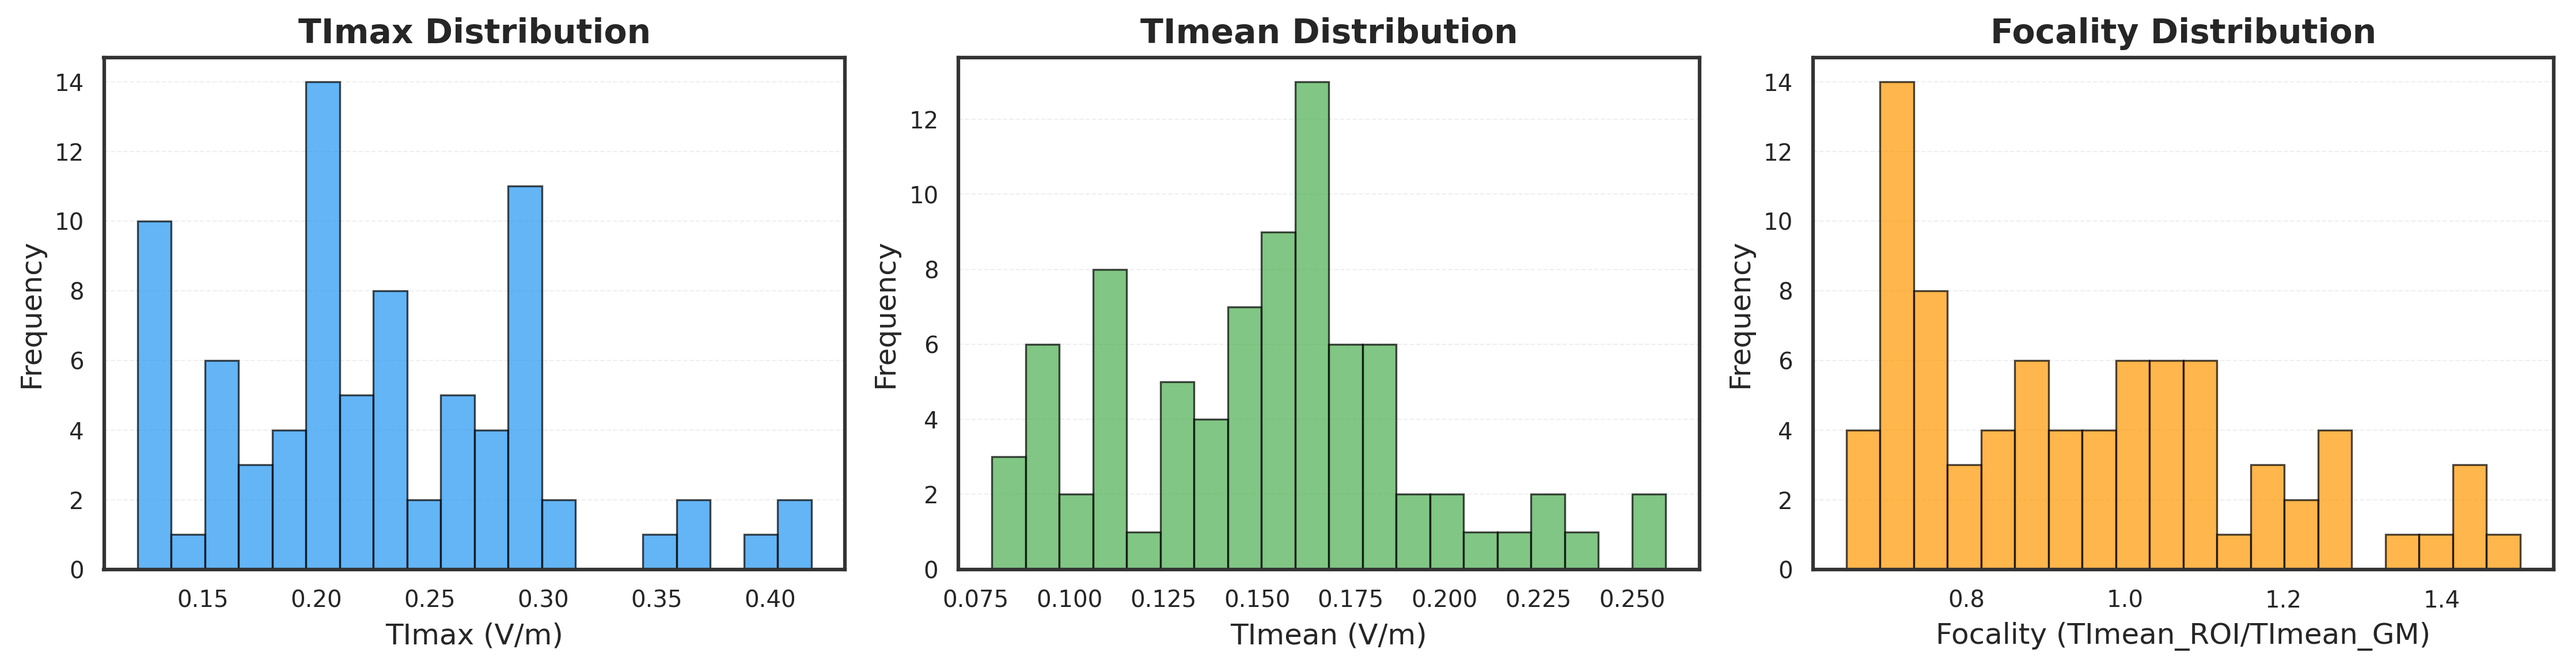
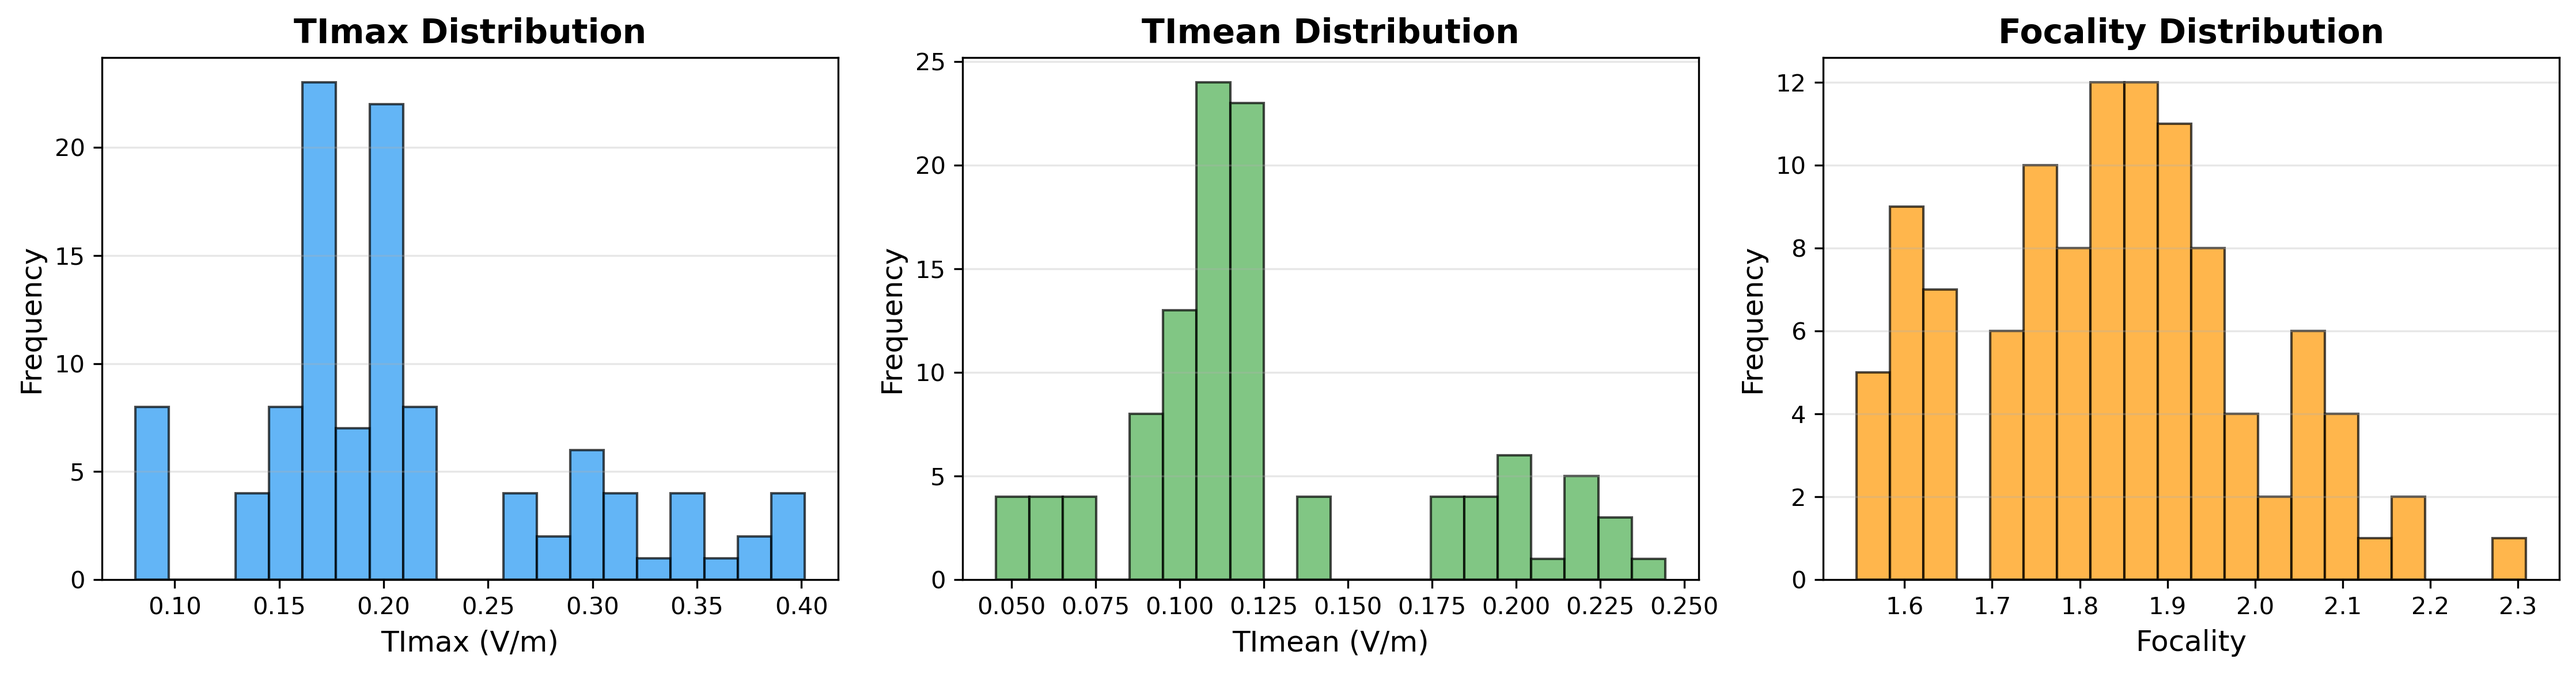
docs: regenerate ex-search example from a real sub-ernie run; fix release download links
- ex-search results table now shows the current 8-column final_output.csv (Composite_Index) from a v2.4.0 run on the Jurak 10-10 leadfield; distribution figure regenerated
- releases: correct asset names, per-version download URLs (latest/ only resolves v2.4.0), version headings for v2.3.2/v2.3.1, pinned docker tags, troubleshooting link

diff --git a/docs/releases/releases.md b/docs/releases/releases.md
@@ -31,15 +31,19 @@ permalink: /releases/
 **Desktop App (latest):**
 [macOS Intel](https://github.com/idossha/TI-Toolbox/releases/latest/download/TI-Toolbox-2.4.0.dmg) ·
 [macOS Apple Silicon](https://github.com/idossha/TI-Toolbox/releases/latest/download/TI-Toolbox-2.4.0-arm64.dmg) ·
-[Windows](https://github.com/idossha/TI-Toolbox/releases/latest/download/TI-Toolbox-2.4.0.exe) ·
+[Windows](https://github.com/idossha/TI-Toolbox/releases/latest/download/TI-Toolbox.Setup.2.4.0.exe) ·
 [Linux AppImage](https://github.com/idossha/TI-Toolbox/releases/latest/download/TI-Toolbox-2.4.0.AppImage) ·
-[Linux deb](https://github.com/idossha/TI-Toolbox/releases/latest/download/TT-Toolbox-2.4.0.deb)
+[Linux deb](https://github.com/idossha/TI-Toolbox/releases/latest/download/ti-toolbox_2.4.0_amd64.deb)
 
 **Other:**
-- Docker Image: `docker pull idossha/simnibs:latest`
+- Docker Image: `docker pull idossha/simnibs:v2.4.0`
 - Source Code: [GitHub Repository](https://github.com/idossha/TI-Toolbox)
 
 For installation instructions, see the [Installation Guide]({{ site.baseurl }}/installation/).
+### v2.3.2
+
+**Release Date**: June 11, 2026
+
 #### Additions
 
 - New Source tool (extension): build MNE EEG forward solutions and project TI fields onto the fsaverage template.
@@ -51,18 +55,22 @@ For installation instructions, see the [Installation Guide]({{ site.baseurl }}/i
 
 #### Download Links
 
-**Desktop App (latest):**
-[macOS Intel](https://github.com/idossha/TI-Toolbox/releases/latest/download/TI-Toolbox-2.3.2.dmg) ·
-[macOS Apple Silicon](https://github.com/idossha/TI-Toolbox/releases/latest/download/TI-Toolbox-2.3.2-arm64.dmg) ·
-[Windows](https://github.com/idossha/TI-Toolbox/releases/latest/download/TI-Toolbox-2.3.2.exe) ·
-[Linux AppImage](https://github.com/idossha/TI-Toolbox/releases/latest/download/TI-Toolbox-2.3.2.AppImage) ·
-[Linux deb](https://github.com/idossha/TI-Toolbox/releases/latest/download/TT-Toolbox-2.3.2.deb)
+**Desktop App (v2.3.2):**
+[macOS Intel](https://github.com/idossha/TI-Toolbox/releases/download/v2.3.2/TI-Toolbox-2.3.2.dmg) ·
+[macOS Apple Silicon](https://github.com/idossha/TI-Toolbox/releases/download/v2.3.2/TI-Toolbox-2.3.2-arm64.dmg) ·
+[Windows](https://github.com/idossha/TI-Toolbox/releases/download/v2.3.2/TI-Toolbox.Setup.2.3.2.exe) ·
+[Linux AppImage](https://github.com/idossha/TI-Toolbox/releases/download/v2.3.2/TI-Toolbox-2.3.2.AppImage) ·
+[Linux deb](https://github.com/idossha/TI-Toolbox/releases/download/v2.3.2/ti-toolbox_2.3.2_amd64.deb)
 
 **Other:**
-- Docker Image: `docker pull idossha/simnibs:latest`
+- Docker Image: `docker pull idossha/simnibs:v2.3.2`
 - Source Code: [GitHub Repository](https://github.com/idossha/TI-Toolbox)
 
 For installation instructions, see the [Installation Guide]({{ site.baseurl }}/installation/).
+### v2.3.1
+
+**Release Date**: May 8, 2026
+
 #### Fixes & Maintenance
 
 ##### Flex-search and Simulation Workflow
@@ -101,16 +109,16 @@ For installation instructions, see the [Installation Guide]({{ site.baseurl }}/i
 
 #### Download Links
 
-**Desktop App (latest):**
-[macOS Intel](https://github.com/idossha/TI-Toolbox/releases/latest/download/TI-Toolbox-2.3.1.dmg) ·
-[macOS Apple Silicon](https://github.com/idossha/TI-Toolbox/releases/latest/download/TI-Toolbox-2.3.1-arm64.dmg) ·
-[Windows](https://github.com/idossha/TI-Toolbox/releases/latest/download/TI-Toolbox.Setup.2.3.1.exe) ·
-[Linux AppImage](https://github.com/idossha/TI-Toolbox/releases/latest/download/TI-Toolbox-2.3.1.AppImage) ·
-[Linux deb](https://github.com/idossha/TI-Toolbox/releases/latest/download/ti-toolbox_2.3.1_amd64.deb)
+**Desktop App (v2.3.1):**
+[macOS Intel](https://github.com/idossha/TI-Toolbox/releases/download/v2.3.1/TI-Toolbox-2.3.1.dmg) ·
+[macOS Apple Silicon](https://github.com/idossha/TI-Toolbox/releases/download/v2.3.1/TI-Toolbox-2.3.1-arm64.dmg) ·
+[Windows](https://github.com/idossha/TI-Toolbox/releases/download/v2.3.1/TI-Toolbox.Setup.2.3.1.exe) ·
+[Linux AppImage](https://github.com/idossha/TI-Toolbox/releases/download/v2.3.1/TI-Toolbox-2.3.1.AppImage) ·
+[Linux deb](https://github.com/idossha/TI-Toolbox/releases/download/v2.3.1/ti-toolbox_2.3.1_amd64.deb)
 
 **Other:**
 
-- Docker Image: `docker pull idossha/simnibs:latest`
+- Docker Image: `docker pull idossha/simnibs:v2.3.1`
 - Source Code: [GitHub Repository](https://github.com/idossha/TI-Toolbox)
 
 For installation instructions, see the [Installation Guide]({{ site.baseurl }}/installation/).
@@ -122,7 +130,7 @@ For installation instructions, see the [Installation Guide]({{ site.baseurl }}/i
 If you encounter issues with any release:
 
 1. Check the [Installation Guide]({{ site.baseurl }}/installation/) for setup instructions
-2. Review the [Troubleshooting]({{ site.baseurl }}/installation/#troubleshooting) section
+2. Review the [Troubleshooting Archive]({{ site.baseurl }}/wiki/troubleshooting/) section
 3. Search [existing issues](https://github.com/idossha/TI-Toolbox/issues)
 4. Ask in [GitHub Discussions](https://github.com/idossha/TI-Toolbox/discussions)
 5. Join the [TI-Toolbox Discord server](https://discord.gg/KKdjJk8f)

diff --git a/docs/wiki/ex-search.md b/docs/wiki/ex-search.md
@@ -80,18 +80,21 @@ Ex-Search automatically detects and supports multiple EEG electrode configuratio
 
 ---
 
-**Example Results:**
+**Example Results** (`final_output.csv`, top 5 of 108 candidates by `Composite_Index`; sub-ernie, EEG10-10 Jurak leadfield, 5 mm spherical ROI at MNI (−38, 5, 0), total 2 mA in 0.5 mA steps, TI-Toolbox v2.4.0):
 
-| Montage | TImax_ROI | TImean_ROI | TImean_GM | Focality |
-|---------|------------|------------|-----------|----------|
-| Fp1_Pz <> C3_C4 | 0.1748 | 0.1418 | 0.1595 | 0.8892 |
-| Fp1_Pz <> C3_F4 | 0.2321 | 0.1480 | 0.1723 | 0.8587 |
-| Fp1_Pz <> C3_P4 | 0.1632 | 0.1150 | 0.1637 | 0.7025 |
-| Fp1_Pz <> F3_C4 | 0.1884 | 0.1558 | 0.1803 | 0.8643 |
+| Montage | Current_Ch1_mA | Current_Ch2_mA | TImax_ROI | TImean_ROI | TImean_GM | Focality | Composite_Index |
+|---------|---------------|---------------|-----------|------------|-----------|----------|-----------------|
+| F7_TP7 <> F5_CP3 | 1.0 | 1.0 | 0.3477 | 0.2173 | 0.1029 | 2.1115 | 0.4589 |
+| F7_P7 <> F5_CP3 | 1.0 | 1.0 | 0.3540 | 0.2288 | 0.1161 | 1.9712 | 0.4510 |
+| F7_P7 <> F5_P5 | 1.0 | 1.0 | 0.4015 | 0.2443 | 0.1323 | 1.8458 | 0.4509 |
+| FT7_P7 <> F5_CP3 | 1.0 | 1.0 | 0.3304 | 0.2083 | 0.0994 | 2.0947 | 0.4363 |
+| FT7_P7 <> FC5_CP3 | 1.0 | 1.0 | 0.3453 | 0.1979 | 0.0908 | 2.1800 | 0.4315 |
 
-
+`Focality = TImean_ROI / TImean_GM` and `Composite_Index = TImean_ROI × Focality`. The `Montage` column in the CSV also carries the current split as a suffix (e.g. `F7_TP7 <> F5_CP3_I1-1.0mA_I2-1.0mA`).
 
 ![Ex-Search Distribution Analysis]({{ site.baseurl }}/assets/imgs/ex-search/ex-search_distribution.png)
+
+*`montage_distributions.png` from the same run: TImax, TImean and focality across all 108 evaluated montages.*
 
 ---
 

diff --git a/docs/releases/v2.4.0.md b/docs/releases/v2.4.0.md
@@ -32,9 +32,9 @@ sitemap: false
 **Desktop App (v2.4.0):**
 [macOS Intel](https://github.com/idossha/TI-Toolbox/releases/download/v2.4.0/TI-Toolbox-2.4.0.dmg) ·
 [macOS Apple Silicon](https://github.com/idossha/TI-Toolbox/releases/download/v2.4.0/TI-Toolbox-2.4.0-arm64.dmg) ·
-[Windows](https://github.com/idossha/TI-Toolbox/releases/download/v2.4.0/TI-Toolbox-2.4.0.exe) ·
+[Windows](https://github.com/idossha/TI-Toolbox/releases/download/v2.4.0/TI-Toolbox.Setup.2.4.0.exe) ·
 [Linux AppImage](https://github.com/idossha/TI-Toolbox/releases/download/v2.4.0/TI-Toolbox-2.4.0.AppImage) ·
-[Linux deb](https://github.com/idossha/TI-Toolbox/releases/download/v2.4.0/TT-Toolbox-2.4.0.deb)
+[Linux deb](https://github.com/idossha/TI-Toolbox/releases/download/v2.4.0/ti-toolbox_2.4.0_amd64.deb)
 
 **Other:**
 
@@ -50,6 +50,6 @@ For installation instructions, see the [Installation Guide]({{ site.baseurl }}/i
 If you encounter issues with this release:
 
 1. Check the [Installation Guide]({{ site.baseurl }}/installation/) for setup instructions
-2. Review the [Troubleshooting]({{ site.baseurl }}/installation/#troubleshooting) section
+2. Review the [Troubleshooting Archive]({{ site.baseurl }}/wiki/troubleshooting/) section
 3. Search [existing issues](https://github.com/idossha/TI-Toolbox/issues)
 4. Ask in [GitHub Discussions](https://github.com/idossha/TI-Toolbox/discussions)
